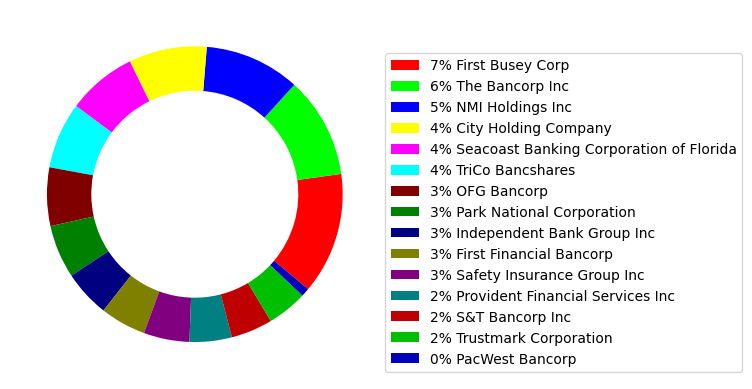
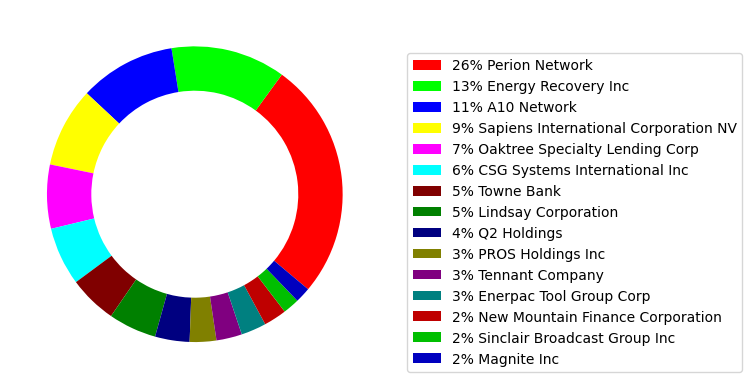
Fix market value doubling
Error in which market value was doubled resulting in inaccurate results

Changed region(s): [[0.5199, 0.1542, 0.9787, 0.9563], [0.0612, 0.0925, 0.4588, 0.8946]]

diff --git a/Report Resources/Fund Performance Report 2023-03-31.html b/Report Resources/Fund Performance Report 2023-03-31.html
@@ -79,7 +79,7 @@
 </head>
 <body class="open-sans">
 <header style="display: flex; justify-content: space-around; align-items: flex-start;">
-    <h1>Finance Small-Cap Fund</h1>
+    <h1>Technology Small-Cap Fund</h1>
     <h2 style="text-align: right;"><b>Performance At: 31/03/2023</b></h2>
 </header>
 <div>
@@ -87,9 +87,9 @@
         <div style="max-width: 280px;">
             <div id="portfolio_summary_text">
                 <h3>FUND AIMS AND OBJECTIVES</h3>
-                <p>Finance Small-Cap Fund (the “Fund”) was launched on 01/01/2015 with the objective of
+                <p>Technology Small-Cap Fund (the “Fund”) was launched on 01/01/2015 with the objective of
                     attaining long-term capital growth by investment in a diversified portfolio of equity and fund
-                    instruments, principally in the Finance sector/s, situated in, registered, headquartered or
+                    instruments, principally in the Technology sector/s, situated in, registered, headquartered or
                     managed from the United States.</p>
                 <p>The Fund maintains 15 holdings as of 31/03/2023.</p>
             </div>
@@ -110,23 +110,23 @@
                     </tr>
                     <tr>
                         <th>Asset Value at Cost:</th>
-                        <td>$899,740</td>
+                        <td>$899,868</td>
                     </tr>
                     <tr>
                         <th>Total Asset Value:</th>
-                        <td>$1,376,756</td>
+                        <td>$1,993,011</td>
                     </tr>
                     <tr>
                         <th>Total Return:</th>
-                        <td>$477,015</td>
+                        <td>$1,093,143</td>
                     </tr>
                     <tr>
                         <th>Total Return:</th>
-                        <td>53.017%</td>
+                        <td>121.478%</td>
                     </tr>
                     <tr>
                         <th>Annualised Return:</th>
-                        <td>14.521%</td>
+                        <td>10.119%</td>
                     </tr>
                 </tbody>
             </table>
@@ -158,7 +158,7 @@
                 </tr>
             </thead>
             <tbody>
-                <tr><td>First Financial Bancorp</td><td>FFBC</td><td>3,200</td><td>60,000</td><td>69,088</td><td>15.147%</td></tr><tr><td>NMI Holdings Inc</td><td>NMIH</td><td>6,557</td><td>59,997</td><td>143,926</td><td>139.891%</td></tr><tr><td>Park National Corporation</td><td>PRK</td><td>679</td><td>59,935</td><td>80,197</td><td>33.805%</td></tr><tr><td>Independent Bank Group Inc</td><td>IBTX</td><td>1,520</td><td>59,964</td><td>70,361</td><td>17.338%</td></tr><tr><td>Seacoast Banking Corporation of Florida</td><td>SBCF</td><td>4,354</td><td>59,998</td><td>104,540</td><td>74.238%</td></tr><tr><td>The Bancorp Inc</td><td>TBBK</td><td>5,454</td><td>59,994</td><td>152,221</td><td>153.727%</td></tr><tr><td>Trustmark Corporation</td><td>TRMK</td><td>2,430</td><td>59,997</td><td>60,410</td><td>0.689%</td></tr><tr><td>Provident Financial Services Inc</td><td>PFS</td><td>3,314</td><td>59,983</td><td>63,563</td><td>5.967%</td></tr><tr><td>City Holding Company</td><td>CHCO</td><td>1,284</td><td>59,988</td><td>117,499</td><td>95.869%</td></tr><tr><td>TriCo Bancshares</td><td>TCBK</td><td>2,429</td><td>59,996</td><td>99,783</td><td>66.316%</td></tr><tr><td>PacWest Bancorp</td><td>PACW</td><td>1,308</td><td>59,959</td><td>12,478</td><td>-79.188%</td></tr><tr><td>S&T Bancorp Inc</td><td>STBA</td><td>1,994</td><td>59,999</td><td>62,711</td><td>4.52%</td></tr><tr><td>OFG Bancorp</td><td>OFG</td><td>3,590</td><td>59,989</td><td>87,919</td><td>46.559%</td></tr><tr><td>Safety Insurance Group Inc</td><td>SAFT</td><td>935</td><td>59,943</td><td>68,872</td><td>14.896%</td></tr><tr><td>First Busey Corp</td><td>BUSE</td><td>9,132</td><td>59,997</td><td>183,188</td><td>205.327%</td></tr>
+                <tr><td>Towne Bank</td><td>TOWN</td><td>3,963</td><td>60,000</td><td>105,138</td><td>75.231%</td></tr><tr><td>Oaktree Specialty Lending Corp</td><td>OCSL</td><td>7,453</td><td>59,997</td><td>139,371</td><td>132.298%</td></tr><tr><td>New Mountain Finance Corporation</td><td>NMFC</td><td>4,024</td><td>59,998</td><td>49,817</td><td>-16.968%</td></tr><tr><td>Perion Network</td><td>PERI</td><td>13,513</td><td>59,998</td><td>520,115</td><td>766.892%</td></tr><tr><td>CSG Systems International Inc</td><td>CSGS</td><td>2,378</td><td>59,997</td><td>127,033</td><td>111.732%</td></tr><tr><td>Q2 Holdings</td><td>QTWO</td><td>3,161</td><td>59,996</td><td>75,232</td><td>25.395%</td></tr><tr><td>Magnite Inc</td><td>MGNI</td><td>3,687</td><td>59,987</td><td>33,699</td><td>-43.823%</td></tr><tr><td>PROS Holdings Inc</td><td>PRO</td><td>2,173</td><td>59,997</td><td>57,867</td><td>-3.549%</td></tr><tr><td>Sapiens International Corporation NV</td><td>SPNS</td><td>8,130</td><td>59,999</td><td>174,063</td><td>190.108%</td></tr><tr><td>A10 Network</td><td>ATEN</td><td>13,698</td><td>59,997</td><td>209,579</td><td>249.315%</td></tr><tr><td>Sinclair Broadcast Group Inc</td><td>SBGI</td><td>2,177</td><td>59,998</td><td>35,812</td><td>-40.312%</td></tr><tr><td>Lindsay Corporation</td><td>LNN</td><td>701</td><td>59,957</td><td>104,701</td><td>74.629%</td></tr><tr><td>Energy Recovery Inc</td><td>ERII</td><td>11,235</td><td>59,995</td><td>249,866</td><td>316.479%</td></tr><tr><td>Enerpac Tool Group Corp</td><td>EPAC</td><td>2,193</td><td>59,979</td><td>54,869</td><td>-8.519%</td></tr><tr><td>Tennant Company</td><td>TNC</td><td>827</td><td>59,974</td><td>55,847</td><td>-6.881%</td></tr>
             </tbody>
         </table>
     </div>

diff --git a/main.py b/main.py
@@ -312,12 +312,12 @@ class Portfolio:
         for asset in self.assets:
             asset.unrealised_gain = asset.market_value - asset.amount_at_cost
             self.total_unrealised_gain += asset.unrealised_gain
-            self.total_market_value += asset.market_value
         return self.total_unrealised_gain / 100
 
     def make_assets_chart(self):
+        asset_market_value = sum([asset.market_value for asset in self.assets])
         for asset in self.assets:
-            asset.percentage_of_portfolio = asset.market_value / self.total_market_value
+            asset.percentage_of_portfolio = asset.market_value / asset_market_value
         fig, ax = plt.subplots()
         market_values = []
         labels = []
@@ -533,7 +533,7 @@ if __name__ == "__main__":
     # get_investments_and_prices()
 
     # Create a new portfolio. As an example, we'll look at a random selection of 15 Small Cap Finance stocks
-    portf = Portfolio(sectors=["FINANCE"], cap_size="Small-cap", max_investments=15)
+    portf = Portfolio(sectors=["TECHNOLOGY"], cap_size="Small-cap", max_investments=15)
 
     # More examples of investment portfolios
     # portf = Portfolio(sectors=["LIFE SCIENCES"], cap_size="Micro-cap", max_investments=15)
